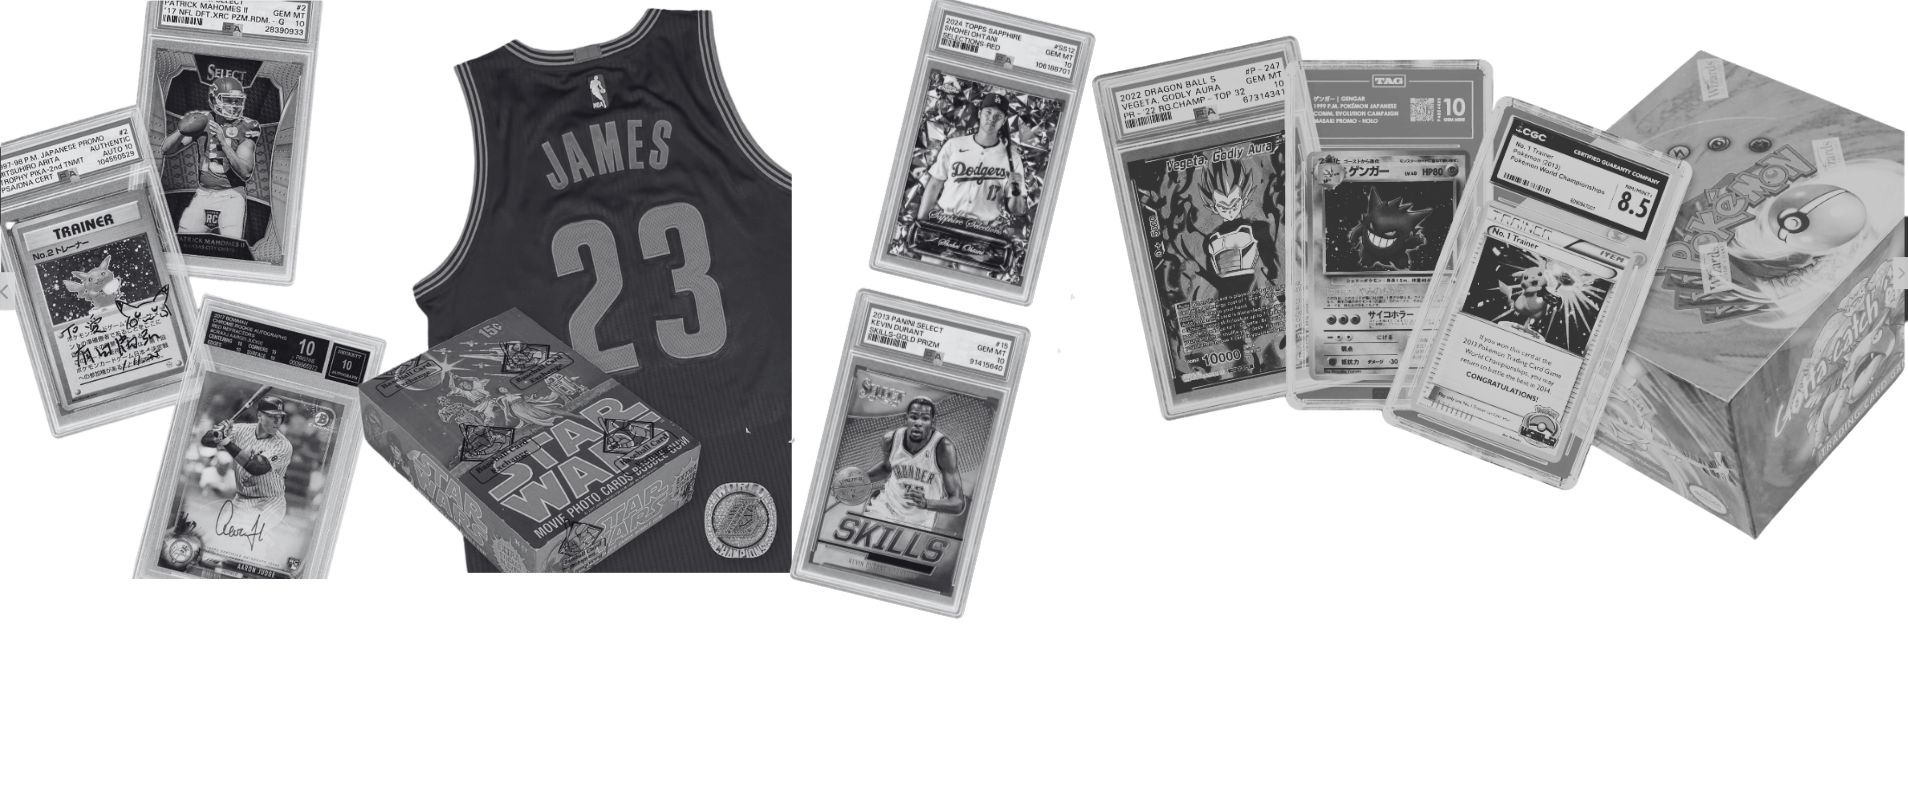
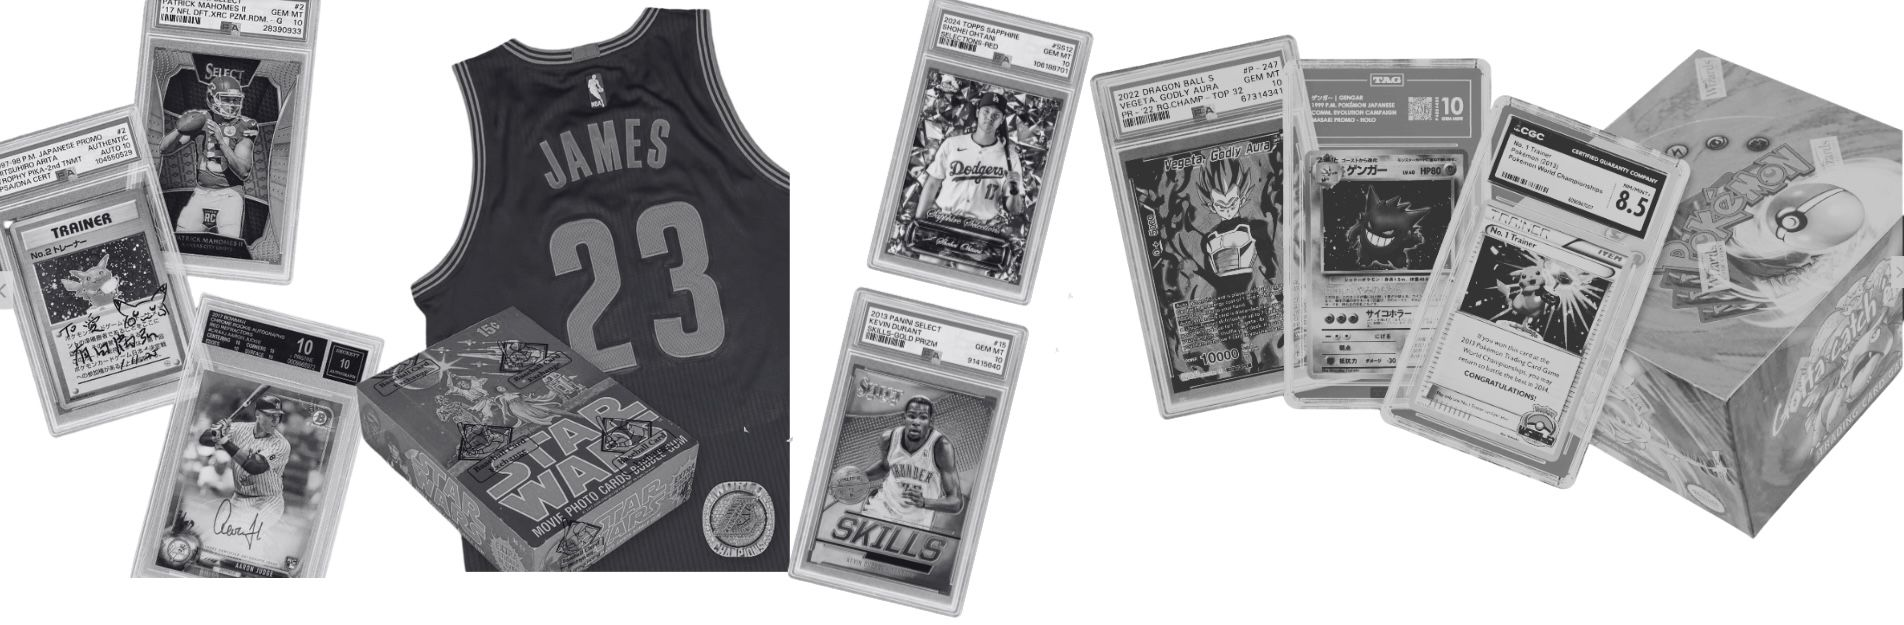
Update manage.png and add background to Get In Touch section
Replace manage.png with updated image and add getintouch.png as a
background to the Contact Us section, using the same three-layer
overlay pattern (image, gradient, accent glow) as other sections.

diff --git a/src/app/page.tsx b/src/app/page.tsx
@@ -686,9 +686,14 @@ export default function LandingPage() {
       <section
         id="contact"
         ref={setRef("contact")}
-        className="py-32 md:py-44 border-t border-border/20"
+        className="py-32 md:py-44 border-t border-border/20 relative overflow-hidden"
       >
-        <div className="max-w-7xl mx-auto px-6 md:px-12 text-center">
+        <div className="absolute inset-0 pointer-events-none">
+          <img src="/getintouch.png" alt="" className="absolute inset-0 w-full h-full object-cover opacity-20" />
+          <div className="absolute inset-0" style={{ background: "linear-gradient(to bottom, rgba(8,8,8,0.7) 0%, rgba(8,8,8,0.4) 50%, rgba(8,8,8,0.7) 100%)" }} />
+          <div className="absolute top-1/3 left-1/2 -translate-x-1/2 w-[1000px] h-[600px] rounded-full" style={{ background: "radial-gradient(ellipse, rgba(212,175,55,0.04) 0%, transparent 70%)" }} />
+        </div>
+        <div className="max-w-7xl mx-auto px-6 md:px-12 text-center relative">
           <p
             className={`text-accent tracking-widest uppercase mb-8 ${isVisible("contact") ? "landing-fade-up" : "opacity-0"}`}
             style={{ fontFamily: "Inter, sans-serif", fontSize: "11px", letterSpacing: "0.3em", animationDelay: "0.1s" }}
